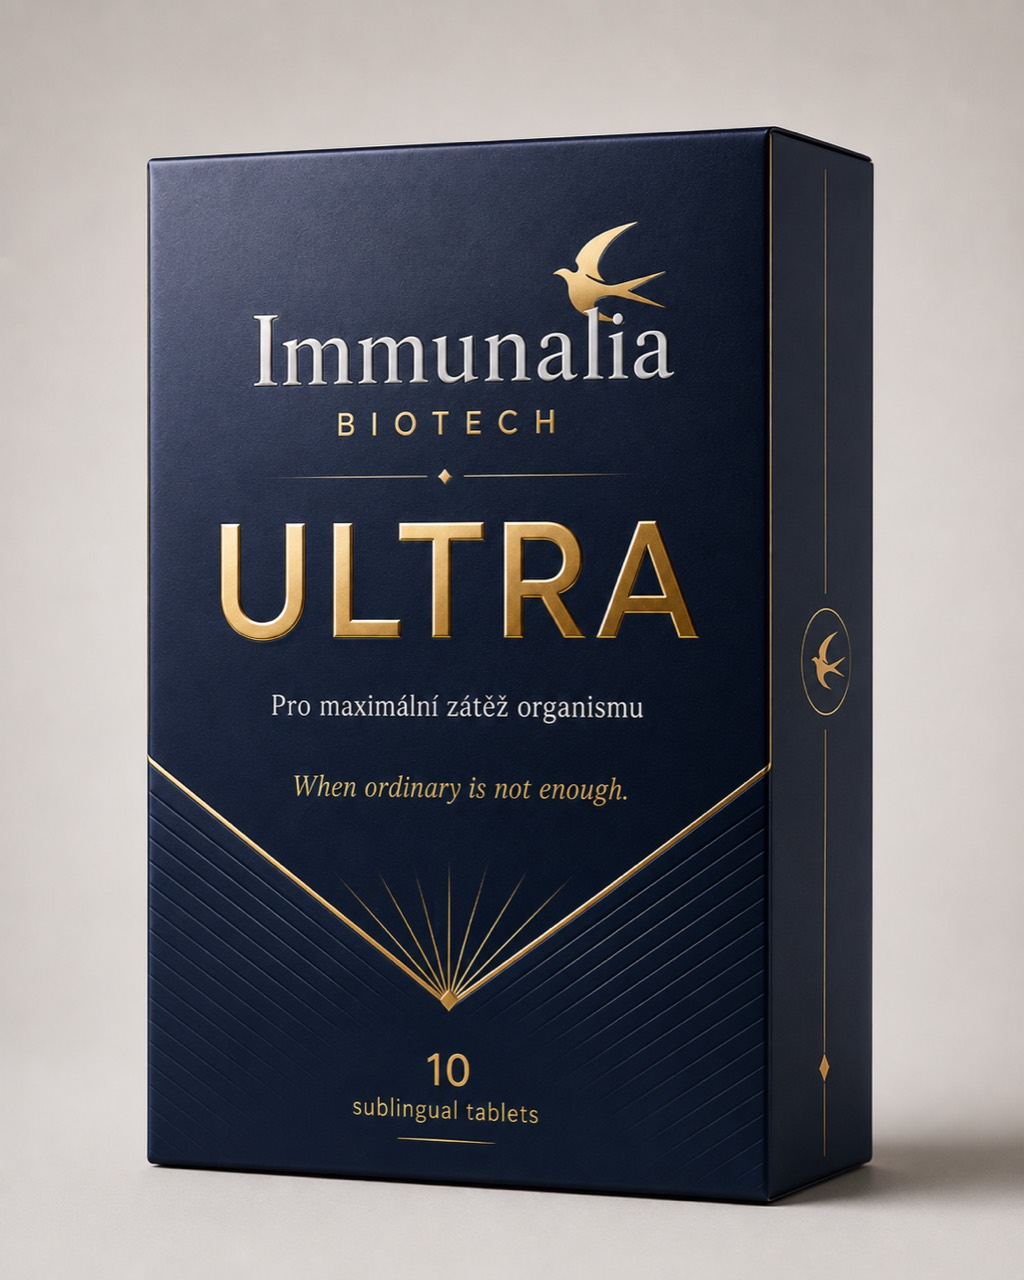
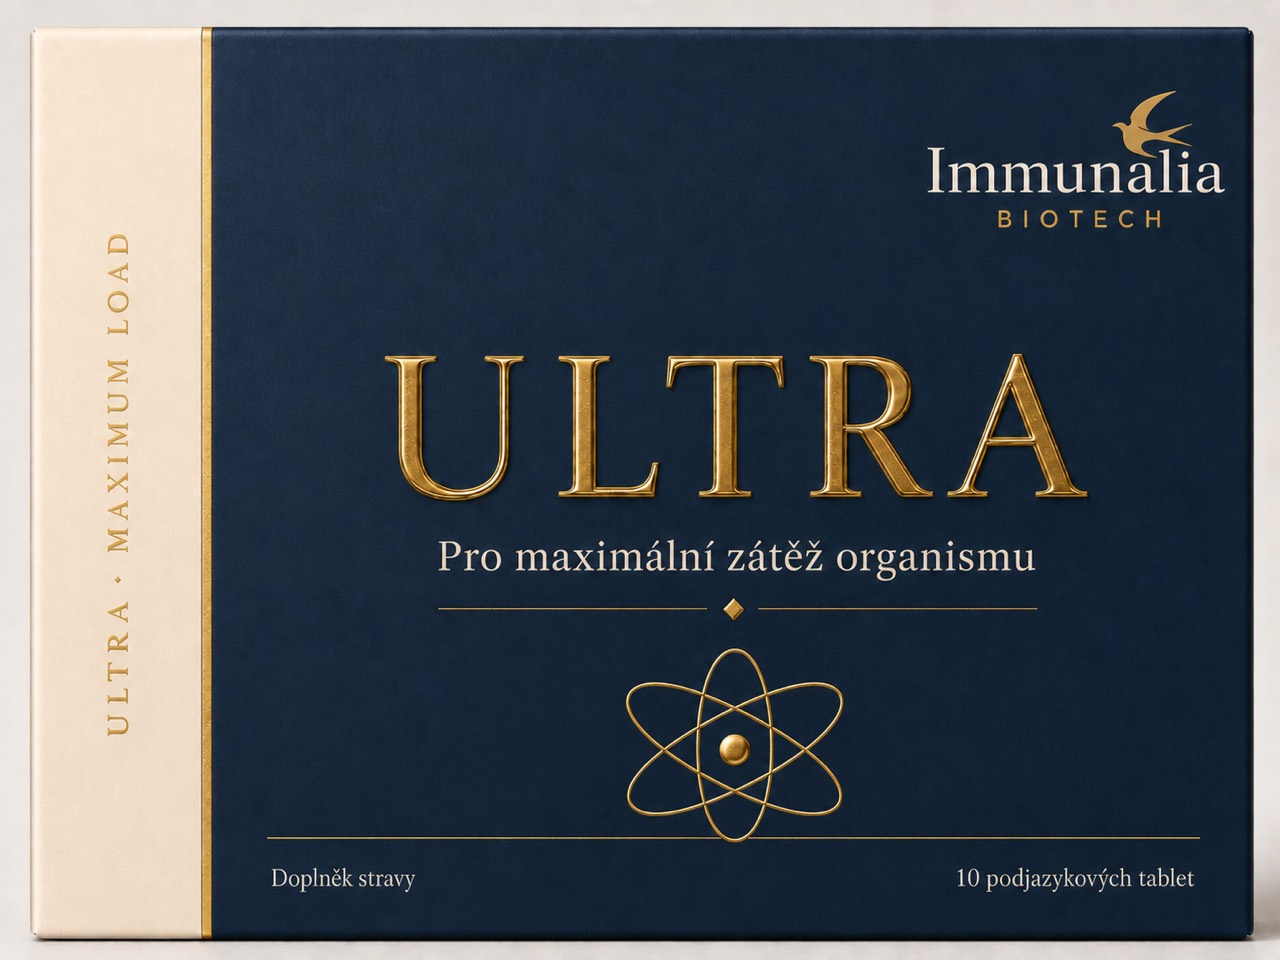
Update ULTRA product packaging

diff --git a/product-commerce.css b/product-commerce.css
@@ -73,25 +73,25 @@
 }
 
 .products-page .ultra-photo-stage {
-  min-height: 285px;
-  padding-top: 18px;
+  min-height: 230px;
+  padding-top: 28px;
   perspective: none;
 }
 
 .products-page .product-pack-photo--ultra {
-  width: auto !important;
-  height: 255px !important;
+  width: min(100%, 340px) !important;
+  height: auto !important;
   max-width: 100%;
-  aspect-ratio: 1024 / 1280;
+  aspect-ratio: 1280 / 960;
   border-radius: 7px;
   object-fit: contain;
   filter: drop-shadow(18px 24px 30px rgba(8, 43, 85, .22));
 }
 
 .products-page .product-pack-photo--ultra-large {
-  width: min(100%, 460px) !important;
+  width: min(100%, 650px) !important;
   height: auto !important;
-  max-height: 680px;
+  max-height: none;
 }
 
 .products-page .ultra-pack {
@@ -860,12 +860,12 @@
   }
 
   .products-page .product-pack-photo--ultra {
-    width: auto !important;
-    height: 250px !important;
+    width: min(100%, 360px) !important;
+    height: auto !important;
   }
 
   .products-page .product-pack-photo--ultra-large {
-    width: min(100%, 330px) !important;
+    width: min(100%, 360px) !important;
     height: auto !important;
   }
 }

diff --git a/produkty-en.html b/produkty-en.html
@@ -8,7 +8,7 @@
   <link rel="stylesheet" href="styles.css?v=20260711-lang1">
   <link rel="stylesheet" href="products.css?v=20260703-commerce1">
   <link rel="stylesheet" href="site-fixes.css?v=20260702-cart1">
-  <link rel="stylesheet" href="product-commerce.css?v=20260711-ultrafix1">
+  <link rel="stylesheet" href="product-commerce.css?v=20260711-ultralandscape1">
 </head>
 <body class="products-page">
   <header class="site-header" data-site-header>
@@ -78,7 +78,7 @@
         </article>
 
         <article class="ritual-card ritual-card--ultra" id="ultra" style="--accent:#D7B56D">
-          <div class="pack-stage product-photo-stage ultra-photo-stage"><img class="product-pack-photo product-pack-photo--ultra" src="assets/immunalia-ultra-product.jpg?v=20260711-ultraimage1" alt="Immunalia ULTRA pack" width="1024" height="1280" decoding="async"></div>
+          <div class="pack-stage product-photo-stage ultra-photo-stage"><img class="product-pack-photo product-pack-photo--ultra" src="assets/immunalia-ultra-product.jpg?v=20260711-ultralandscape1" alt="Immunalia ULTRA pack" width="1280" height="960" decoding="async"></div>
           <span class="product-symbol symbol-ultra" aria-hidden="true"></span>
           <h3>ULTRA</h3>
           <p>For maximum load on the organism.</p>
@@ -114,7 +114,7 @@
           <p>It is intended especially for intensive sport, endurance activities, high-altitude environments, demanding travel, long working days and other situations that place extraordinary demands on the organism.</p>
           <div class="actions"><a class="button primary" href="#ultra-usage">When to use</a><a class="button secondary" href="#checkout-placeholder" data-product="ultra">Buy ULTRA</a></div>
         </div>
-        <div class="ultra-showcase-pack" aria-hidden="true"><img class="product-pack-photo product-pack-photo--ultra product-pack-photo--ultra-large" src="assets/immunalia-ultra-product.jpg?v=20260711-ultraimage1" alt="" width="1024" height="1280" decoding="async"></div>
+        <div class="ultra-showcase-pack" aria-hidden="true"><img class="product-pack-photo product-pack-photo--ultra product-pack-photo--ultra-large" src="assets/immunalia-ultra-product.jpg?v=20260711-ultralandscape1" alt="" width="1280" height="960" decoding="async"></div>
       </div>
 
       <div class="ultra-usage" id="ultra-usage">

diff --git a/produkty.html b/produkty.html
@@ -8,7 +8,7 @@
   <link rel="stylesheet" href="styles.css?v=20260711-lang1">
   <link rel="stylesheet" href="products.css?v=20260703-commerce1">
   <link rel="stylesheet" href="site-fixes.css?v=20260702-cart1">
-  <link rel="stylesheet" href="product-commerce.css?v=20260711-ultrafix1">
+  <link rel="stylesheet" href="product-commerce.css?v=20260711-ultralandscape1">
 </head>
 <body class="products-page">
   <header class="site-header" data-site-header>
@@ -78,7 +78,7 @@
         </article>
 
         <article class="ritual-card ritual-card--ultra" id="ultra" style="--accent:#D7B56D">
-          <div class="pack-stage product-photo-stage ultra-photo-stage"><img class="product-pack-photo product-pack-photo--ultra" src="assets/immunalia-ultra-product.jpg?v=20260711-ultraimage1" alt="Obal Immunalia ULTRA" width="1024" height="1280" decoding="async"></div>
+          <div class="pack-stage product-photo-stage ultra-photo-stage"><img class="product-pack-photo product-pack-photo--ultra" src="assets/immunalia-ultra-product.jpg?v=20260711-ultralandscape1" alt="Obal Immunalia ULTRA" width="1280" height="960" decoding="async"></div>
           <span class="product-symbol symbol-ultra" aria-hidden="true"></span>
           <h3>ULTRA</h3>
           <p>Pro maximální zátěž organismu.</p>
@@ -114,7 +114,7 @@
           <p>Vhodná je zejména pro intenzivní sportovní výkon, vytrvalostní aktivity, vysokohorské prostředí, náročné cestování, dlouhé pracovní nasazení a další situace, při kterých jsou na organismus kladeny mimořádné nároky.</p>
           <div class="actions"><a class="button primary" href="#ultra-usage">Kdy používat</a><a class="button secondary" href="#checkout-placeholder" data-product="ultra">Koupit ULTRA</a></div>
         </div>
-        <div class="ultra-showcase-pack" aria-hidden="true"><img class="product-pack-photo product-pack-photo--ultra product-pack-photo--ultra-large" src="assets/immunalia-ultra-product.jpg?v=20260711-ultraimage1" alt="" width="1024" height="1280" decoding="async"></div>
+        <div class="ultra-showcase-pack" aria-hidden="true"><img class="product-pack-photo product-pack-photo--ultra product-pack-photo--ultra-large" src="assets/immunalia-ultra-product.jpg?v=20260711-ultralandscape1" alt="" width="1280" height="960" decoding="async"></div>
       </div>
 
       <div class="ultra-usage" id="ultra-usage">